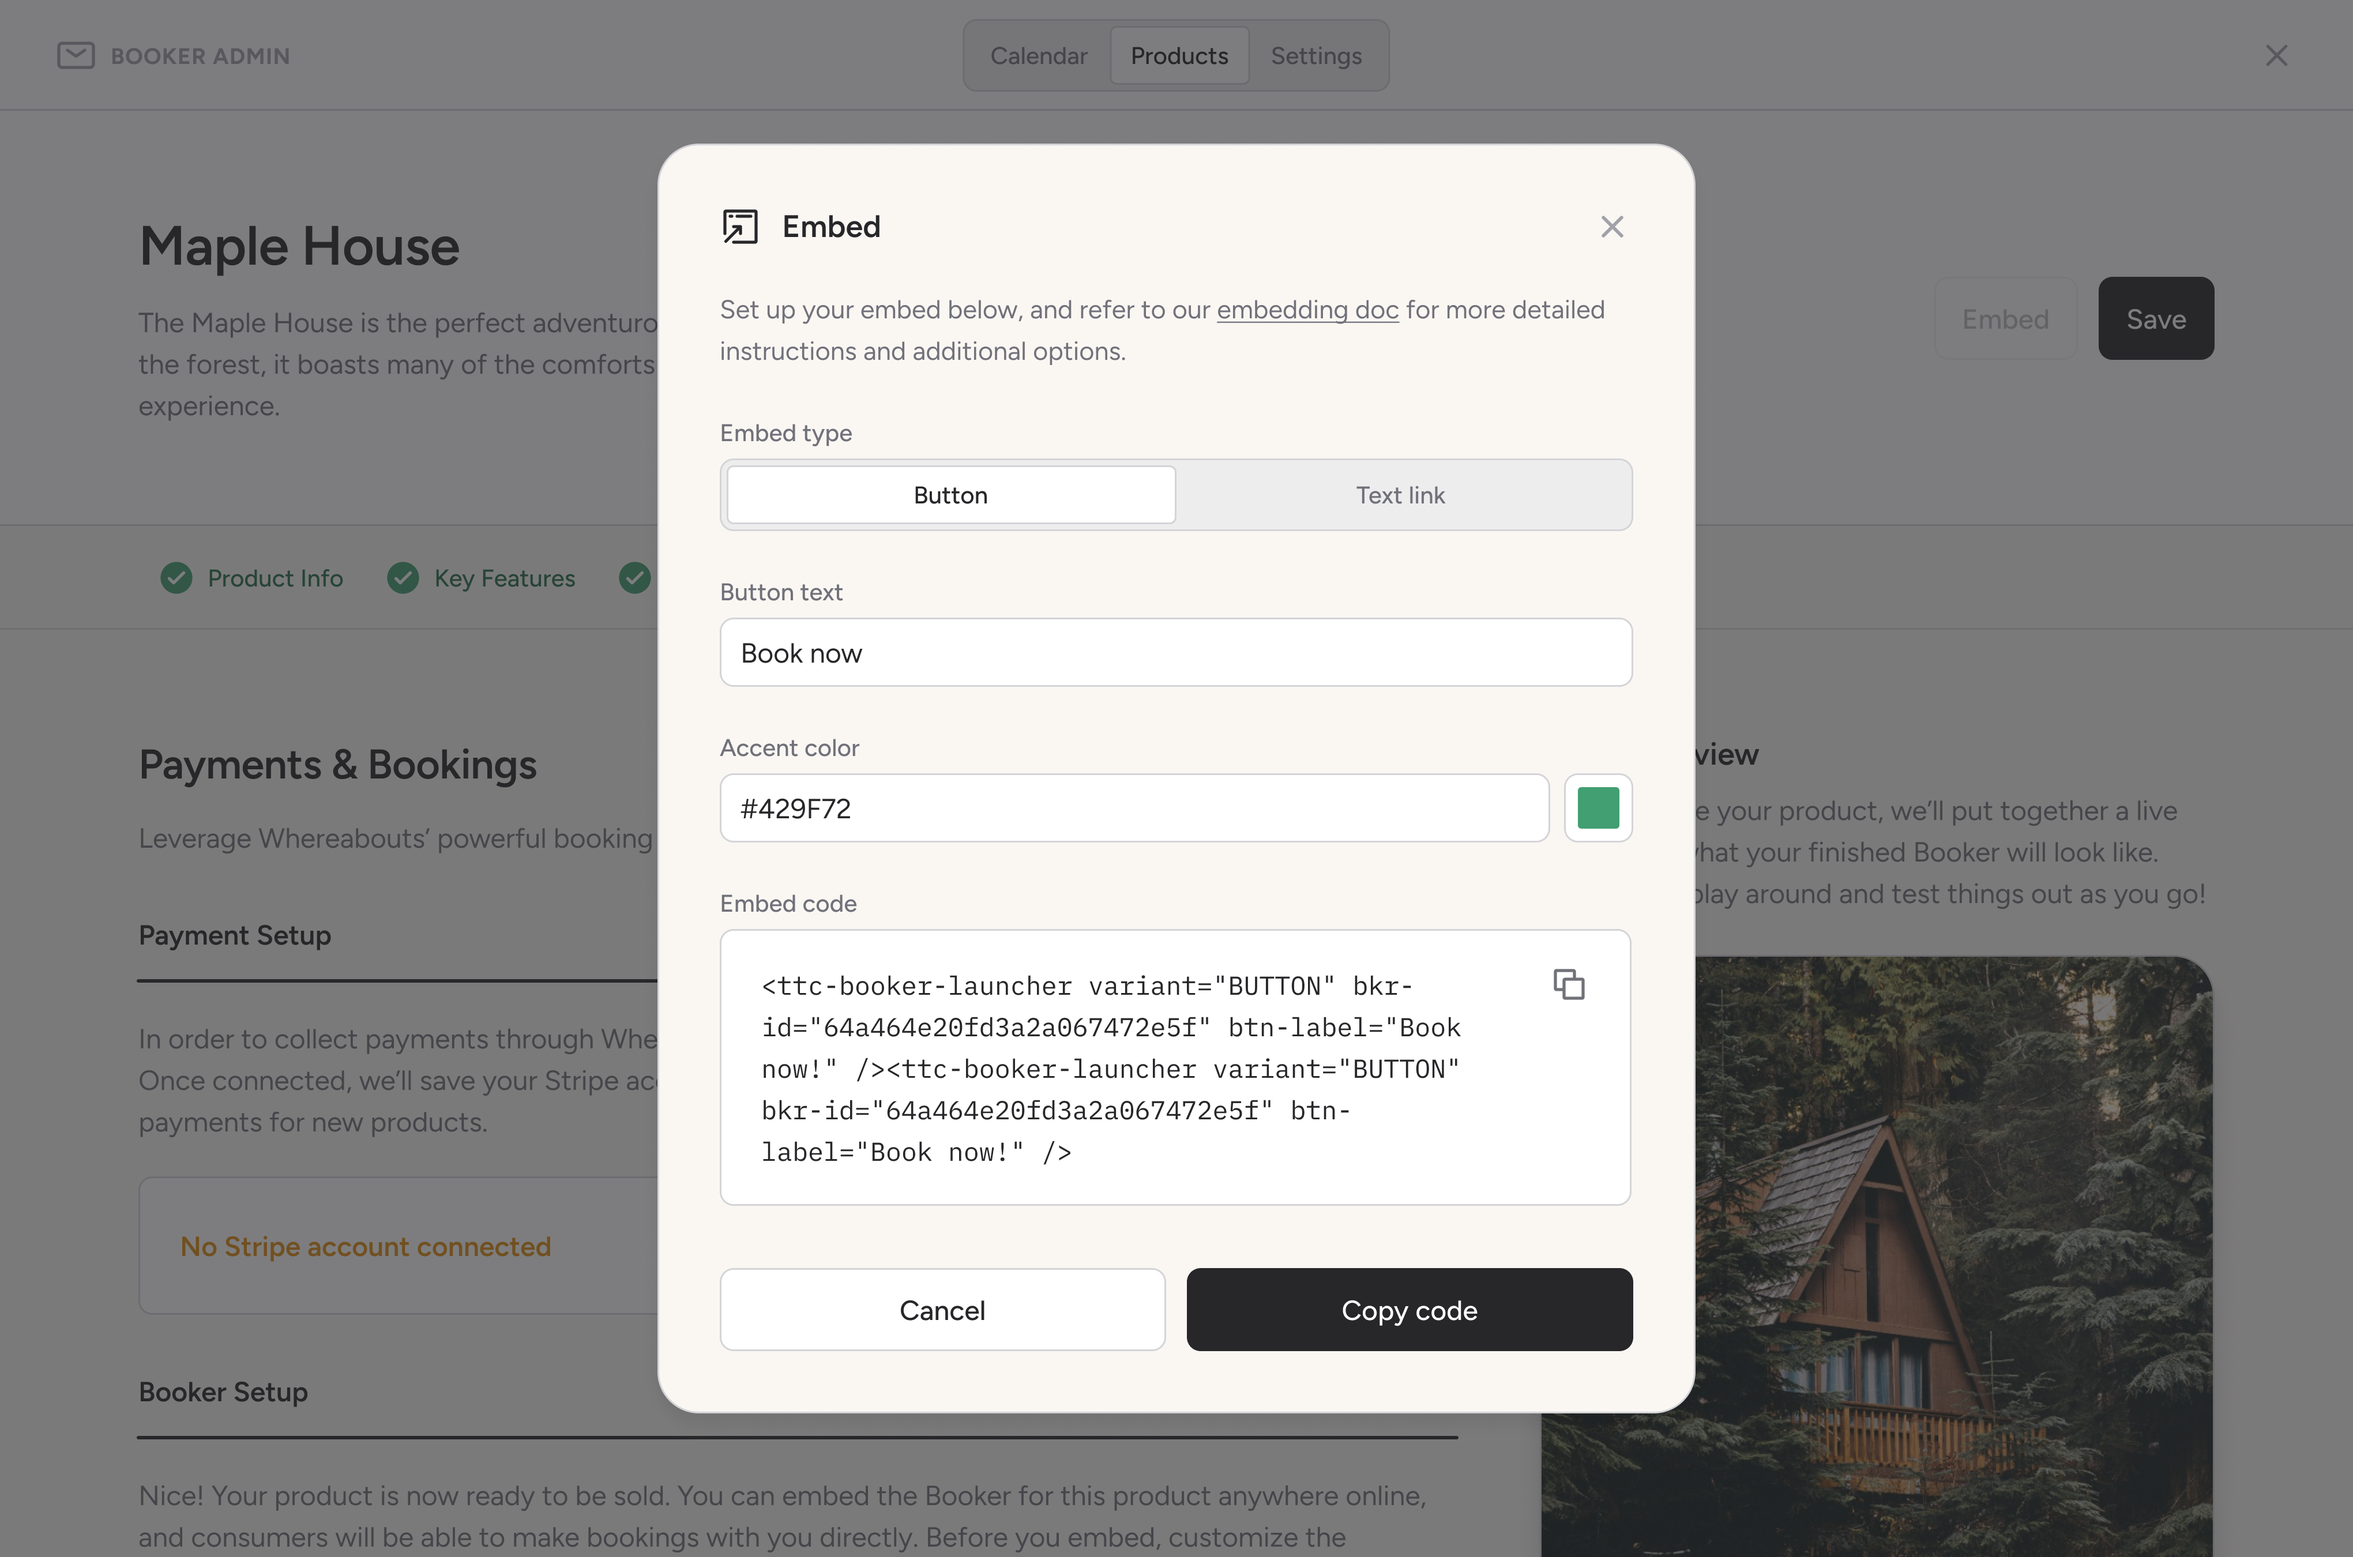
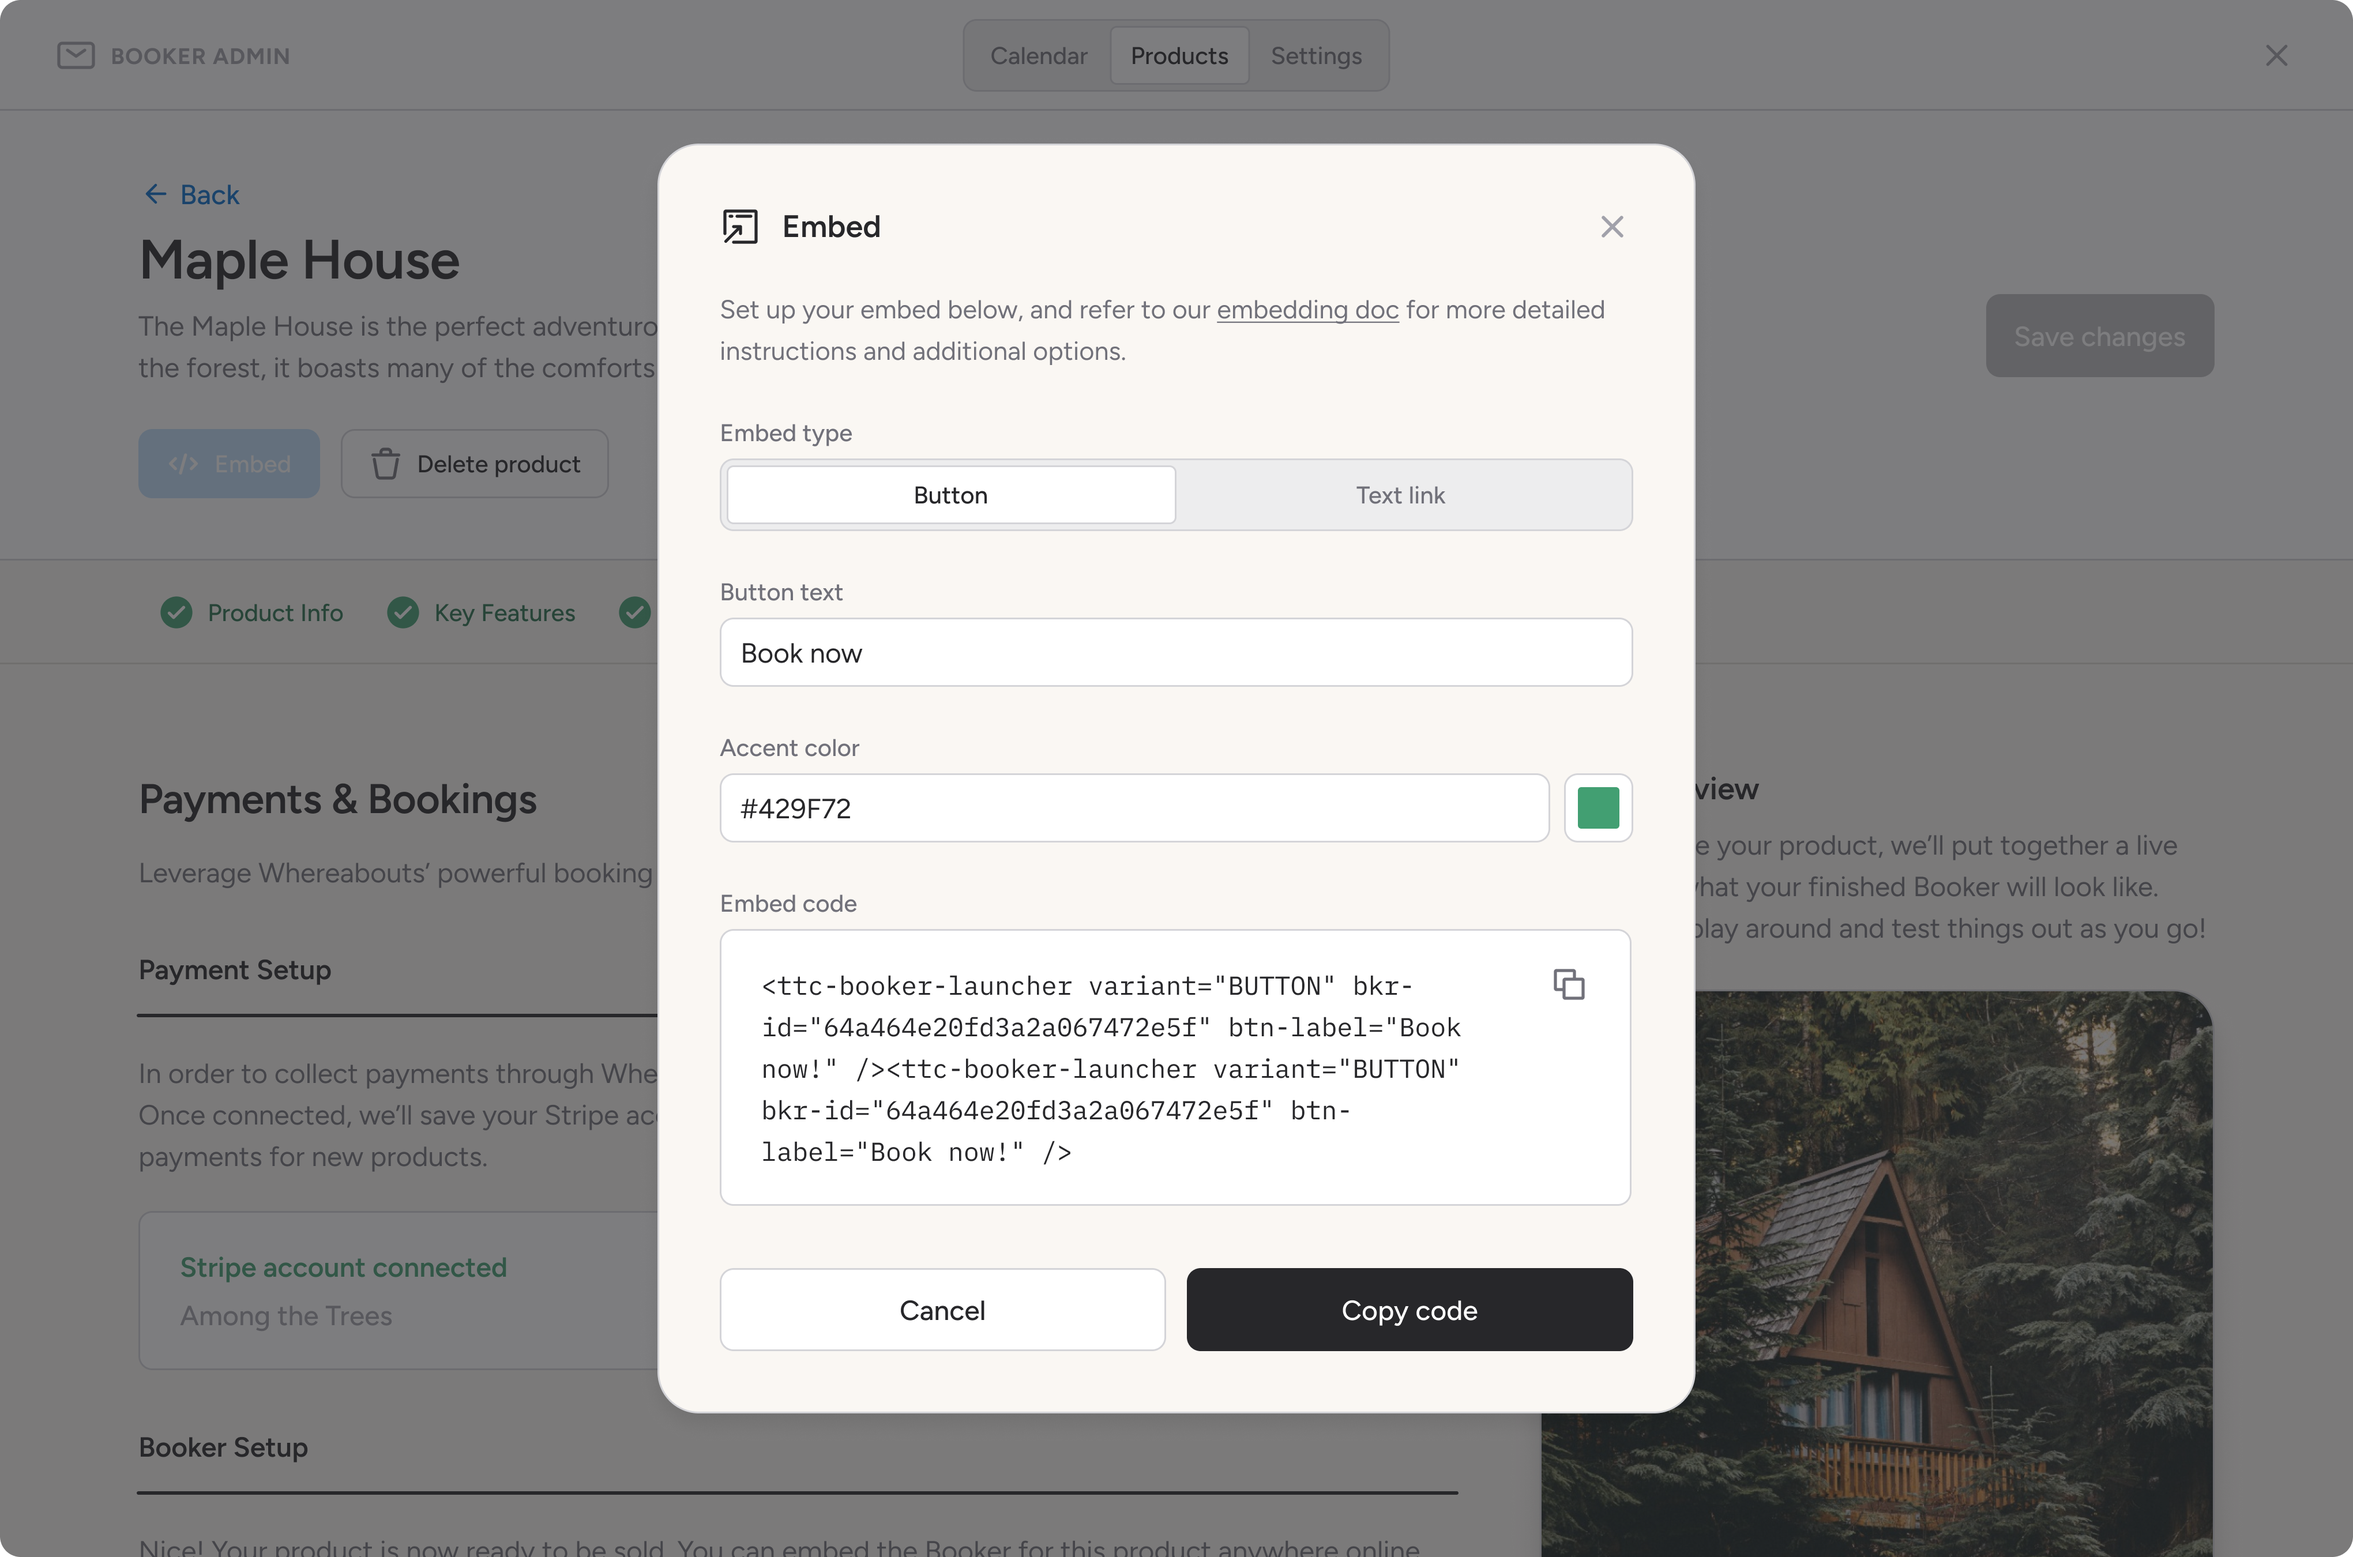
add screens + update copy

diff --git a/portfolio.html b/portfolio.html
@@ -28,7 +28,7 @@
           <div class="p-info">
             <div class="p-detail">
               <span class="label">Role</span>
-              <span class="role">Product Designer, CPO</span>
+              <span class="role">Product Designer, CPO, Co-founder</span>
             </div>
             <div class="p-detail">
               <span class="label">Company</span>
@@ -37,20 +37,23 @@
           </div>
           <h3 class="p-headline">Booker is a light-weight, low-fee booking engine that we’ve built directly into our larger app for tourism destinations, Whereabouts. Booker’s focus is to provide small, independent tourism businesses — many of which have limited to no digital presence — with an e-commerce solution that’s designed precisely for their unique needs while being easy to embed anywhere on the web. </h3>
         </div>
-        <p>Many of the businesses we support are reticent to adopt modern tech tools — and for good reason. Big corporate aggregators like Airbnb and Booking.com take huge cuts of their profits, and smaller platforms more tailored to tourism products are often bogged down by endless complexity.</p>
-        <p>Having relied almost exclusively on government funding, our journey to the current version of Booker has been rewarding but not without its challenges. Through a handful of iterations, various rounds of beta testing, and many conversations with small businesses, we’ve honed the product to a point where we feel it delivers a simple experience while being modular enough to support long-term development. </p>
+        <p>Many of the businesses we support are reticent to adopt modern tech tools — and for good reason. Big corporate aggregators like Airbnb and Booking.com take huge cuts of their profits, and smaller platforms more tailored to tourism products are often bogged down by endless complexity. Through a handful of iterations over the last two years, informed by various rounds of beta testing and many conversations with small businesses, we’ve honed the product to a point where we feel it delivers a delightful, simple experience while being modular enough to support long-term growth.</p>
         <script src="https://fast.wistia.com/embed/medias/ydqyvuvcn3.jsonp" async></script><script src="https://fast.wistia.com/assets/external/E-v1.js" async></script><div class="wistia_responsive_padding" style="padding:88% 0 0 0;position:relative;"><div class="wistia_responsive_wrapper" style="height:100%;left:0;position:absolute;top:0;width:100%;"><div class="wistia_embed wistia_async_ydqyvuvcn3 seo=false videoFoam=true" style="height:100%;position:relative;width:100%">&nbsp;</div></div></div>
-        <p>Booker went through a few iterations since 2020, and each one was informed by extensive user interviews, feedback, and beta testing. We used all of this user data to continually refine and simplify the Booker product; given how short on time these tourism businesses are, it’s important that we build software that solves real-world problems for them — and quickly.</p>
-        <p>Booker is made up of two parts: one is the consumer-facing embed through which reservations are made, and the other is the admin app for businesses through which they manage their calendar, configure settings, and create sellable products. For this case study, I’ll focus on the latter.</p>
-        <p>Tourism businesses here in Canada are funky — in a good way. A single business might offer everything from accommodations, meal plans, guided tours, classes, and even chartered flights to their remote location. Though we want to support multi-product Bookers with complex dependencies in the long run, we needed to start with a model that would be easy to build and dead-simple for businesses to adopt.</p>
-        <p>In the current version, businesses create sellable products — either accommodations, events, or fee-based products — in their Booker Admin app, and each one gets its own embeddable Booker instance. The data model we’ve created for these sellable products is simple, such that a business owner can create a product and get it online with minutes.</p>
+        <p>Booker is made up of two parts: one is the consumer-facing embed through which reservations are made (as shown in the video above), and the other is the admin app for businesses through which they manage their calendar and bookings, configure their settings, and create sellable products (for now, we support the creation of accommodation, event-based, and fee-based products). For this case study, I’ll focus on product creation user flow.</p>
+        <!-- <p>Tourism businesses here in Canada are funky — in a good way. A single business might offer everything from accommodations, meal plans, guided tours, classes, and even chartered flights to their remote location. Though we want to support multi-product Bookers with complex dependencies in the long run, we needed to start with a model that would be easy to build and dead-simple for businesses to adopt.</p> -->
+        <p>Every sellable product that a business creates gets its own embeddable Booker instance. This is what makes our model unique: instead of driving traffic to a single source such as their website, businesses can embed their products anywhere they choose and even share their embeds with third-party partners to broaden their reach. And in the interest of simplicity, the data model we’ve created for these sellable products allows a business owner to create one and start capturing bookings within minutes.</p>
         <img class="img-shadow"src="images/product-root.png" alt="">
-        <p>↑ In the Booker Admin app, business owners can see an overview of their sellable products. From here, they can also create new ones, as shown in the screens below.</p>
+        <p>In the Products tab, business owners can see an overview of all their sellable products. From here, they can also create new ones. The screens below showcase parts of the flow a user would follow to create an accommodation product. The user flow is broken down into clear steps, and at each one, the user can see a live preview of their Booker being rendered on the right-hand side.</p>
         <img class="img-shadow"src="images/product-info.png" alt="">
-        <p>In this example, we're looking at the creation flow for an accommodation product. The flow is broken down into clear steps, and at each one, the user can see a live preview of their Booker being rendered on the right-hand side.</p>
+        <p>As shown in the modals below, users can easily create bedrooms with specific attributes, custom pricing tiers, and simple upsell opportunities.</p>
+        <img src="images/modal-detail.png" alt="">
+        <p>Rich content like photos and videos can easily be uploaded to better showcase the product.</p>
         <img class="img-shadow"src="images/product-media.png" alt="">
+        <p>We've also built a Stripe integration, allowing users to easily create (or connect) a Stripe account without having to abandon the product creation flow.</p>
         <img class="img-shadow"src="images/product-payments.png" alt="">
+        <p>Lastly, once all the steps in the flow have been completed, an embed code can be generated and customized.</p>
         <img class="img-shadow"src="images/product-embed.png" alt="">
+        <p>Tourism business owners love to give their customers amazing experiences; what they don't love is having to invest an inordinate amount of time in admin work. With Booker, our goal is to help these folks thrive in a crowded market while saving them time through simple, easy-to-use solutions.</p>
       </section>
 
       <!-- COMPASS -->
